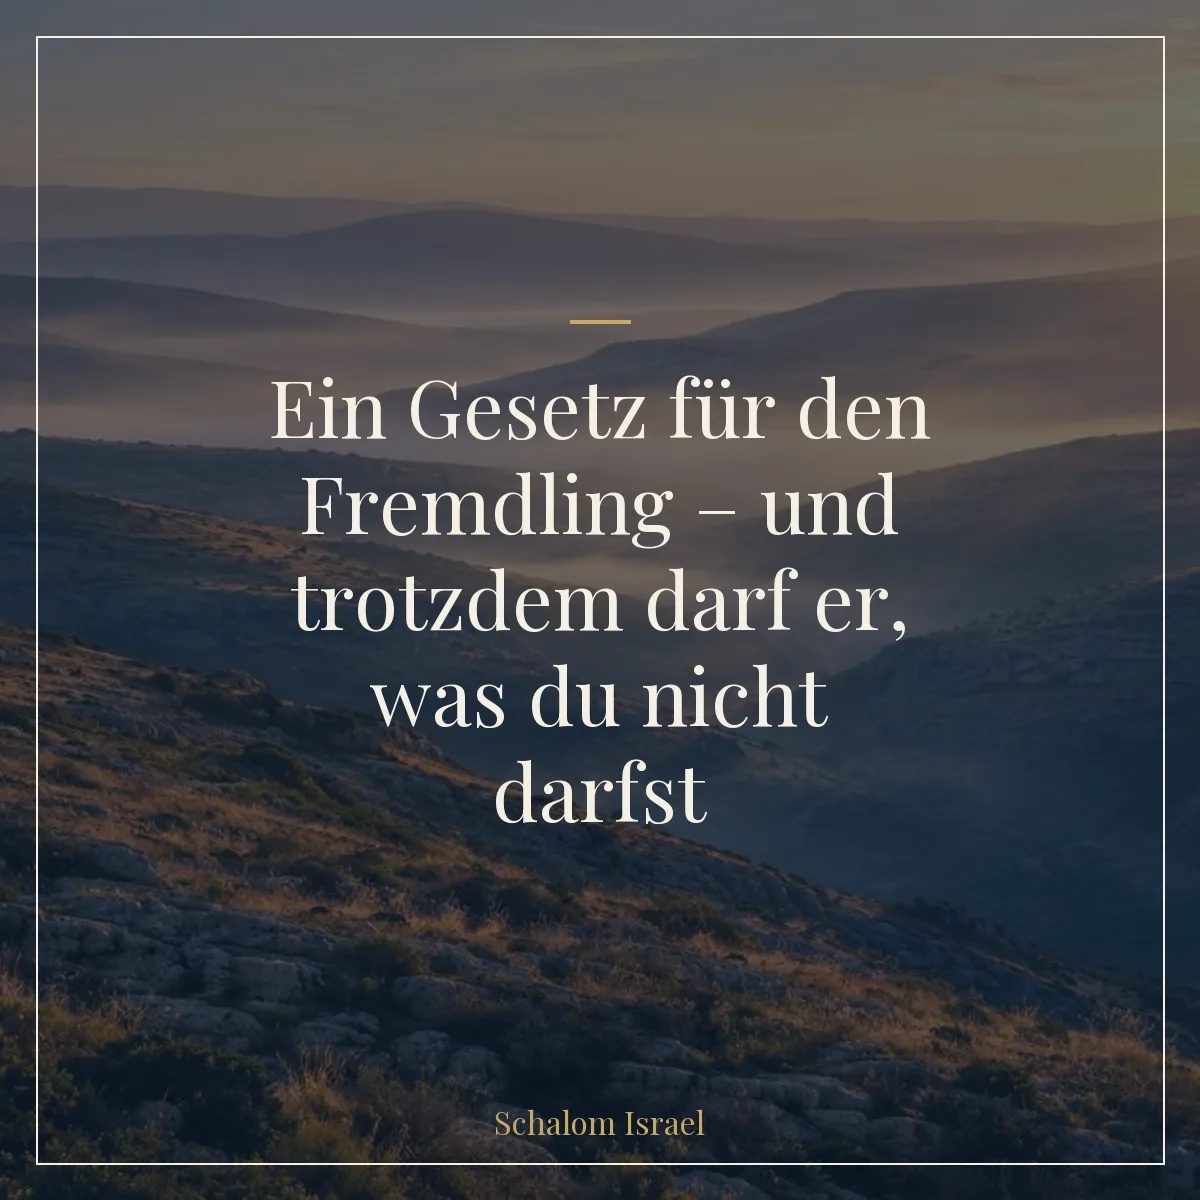
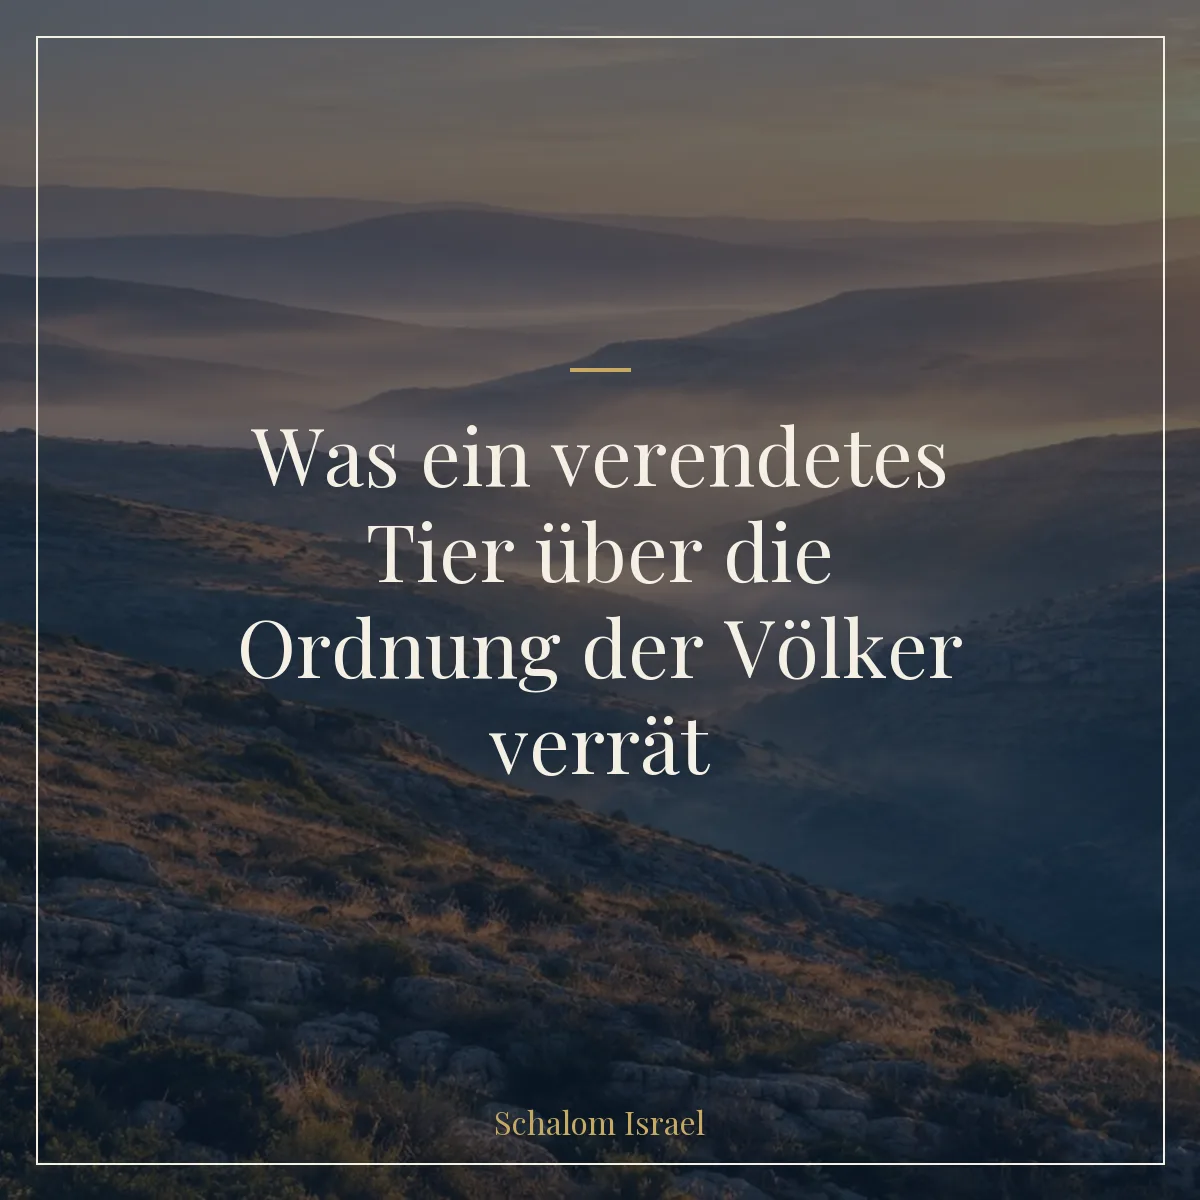
feat(artikel): neuer Titel "Was ein verendetes Tier ueber die Ordnung der Voelker verraet"
Titel ohne Du-Ansprache (SI-Konvention). Durchgezogen in Meta-Tags,
JSON-LD, Hero, Breadcrumb, Blog, Startseite und Themenseite;
Share-Bild neu erzeugt. URL bleibt unveraendert.

Changed region(s): [[0.185, 0.3083, 0.8017, 0.7092], [0.4933, 0.2467, 0.5242, 0.2775]]

diff --git a/ein-gesetz-fuer-den-fremdling/index.html b/ein-gesetz-fuer-den-fremdling/index.html
@@ -4,9 +4,9 @@
   <meta charset="UTF-8">
   <link rel="icon" type="image/svg+xml" href="/favicon.svg">
   <meta name="viewport" content="width=device-width, initial-scale=1.0">
-  <title>Ein Gesetz für den Fremdling – und trotzdem darf er, was du nicht darfst – Schalom Israel</title>
+  <title>Was ein verendetes Tier über die Ordnung der Völker verrät – Schalom Israel</title>
   <meta name="description" content="Warum darf der »Fremdling« in Re'eh das essen, was dem Israeliten verboten ist – obwohl es heißt: ein Gesetz für alle? Fünf hebräische Wörter für »Fremder«, drei Kreise der Zugehörigkeit, und was Gott von den Völkern wirklich fordert, bis hin zum Land, das nur trägt, wer sittlich lebt.">
-  <meta property="og:title" content="Ein Gesetz für den Fremdling – und trotzdem darf er, was du nicht darfst">
+  <meta property="og:title" content="Was ein verendetes Tier über die Ordnung der Völker verrät">
   <meta property="og:description" content="Warum darf der »Fremdling« in Re'eh das essen, was dem Israeliten verboten ist – obwohl es heißt: ein Gesetz für alle? Fünf hebräische Wörter für »Fremder«, drei Kreise der Zugehörigkeit, und was Gott von den Völkern wirklich fordert.">
   <meta property="og:image" content="https://www.schalomisrael.de/bilder/share/ein-gesetz-fuer-den-fremdling.webp">
   <meta property="og:url" content="https://www.schalomisrael.de/ein-gesetz-fuer-den-fremdling/">
@@ -19,7 +19,7 @@
   {
   "@context": "https://schema.org",
   "@type": "Article",
-  "headline": "Ein Gesetz für den Fremdling – und trotzdem darf er, was du nicht darfst",
+  "headline": "Was ein verendetes Tier über die Ordnung der Völker verrät",
   "description": "Warum darf der »Fremdling« in Re'eh das essen, was dem Israeliten verboten ist – obwohl es heißt: ein Gesetz für alle? Fünf hebräische Wörter für »Fremder«, drei Kreise der Zugehörigkeit, und was Gott von den Völkern wirklich fordert.",
   "image": "https://www.schalomisrael.de/bilder/share/ein-gesetz-fuer-den-fremdling.webp",
   "datePublished": "2026-08-21",
@@ -62,7 +62,7 @@
     {
       "@type": "ListItem",
       "position": 3,
-      "name": "Ein Gesetz für den Fremdling"
+      "name": "Die Ordnung der Völker"
     }
   ]
 }
@@ -81,7 +81,7 @@
         <span class="meta-divider">·</span>
         <span class="article-reading-time" data-reading-time>… Min Lesezeit</span>
       </div>
-      <h1 class="article-hero-title">Ein Gesetz für den Fremdling – und trotzdem darf er, was du nicht darfst</h1>
+      <h1 class="article-hero-title">Was ein verendetes Tier über die Ordnung der Völker verrät</h1>
     </div>
   </header>
   <nav class="breadcrumb" aria-label="Brotkrumen-Navigation">
@@ -90,7 +90,7 @@
       <span class="breadcrumb-sep">›</span>
       <a href="/blog/">Blog</a>
       <span class="breadcrumb-sep">›</span>
-      <span class="breadcrumb-current">Ein Gesetz für den Fremdling</span>
+      <span class="breadcrumb-current">Die Ordnung der Völker</span>
     </div>
   </nav>
 
@@ -116,7 +116,7 @@
       <p>Der Israelit darf es nicht essen. Der Fremdling schon.</p>
 
       <figure class="article-share-img">
-        <img src="/bilder/share/ein-gesetz-fuer-den-fremdling.webp" alt="Ein Gesetz für den Fremdling – und trotzdem darf er, was du nicht darfst" loading="lazy" width="1200" height="1200">
+        <img src="/bilder/share/ein-gesetz-fuer-den-fremdling.webp" alt="Was ein verendetes Tier über die Ordnung der Völker verrät" loading="lazy" width="1200" height="1200">
       </figure>
 
       <p>Und hier hakt es. Denn nur ein paar Kapitel vorher, und an vielen anderen Stellen, klingt es genau umgekehrt: „ein Gesetz für den Einheimischen und den Fremdling". Gleiches Recht. Gleiche Regel.</p>

diff --git a/themen/land-israel/index.html b/themen/land-israel/index.html
@@ -136,7 +136,7 @@
         "@type": "ListItem",
         "position": 1,
         "url": "https://www.schalomisrael.de/ein-gesetz-fuer-den-fremdling/",
-        "name": "Ein Gesetz für den Fremdling – und trotzdem darf er, was du nicht darfst"
+        "name": "Was ein verendetes Tier über die Ordnung der Völker verrät"
       },
       {
         "@type": "ListItem",
@@ -214,11 +214,11 @@
     <div class="container">
       <article class="article-card" data-parasha="reeh" data-book="dewarim">
         <a href="/ein-gesetz-fuer-den-fremdling/" class="article-image-link">
-          <img src="/bilder/share/ein-gesetz-fuer-den-fremdling.webp" alt="Ein Gesetz für den Fremdling – und trotzdem darf er, was du nicht darfst" class="article-image">
+          <img src="/bilder/share/ein-gesetz-fuer-den-fremdling.webp" alt="Was ein verendetes Tier über die Ordnung der Völker verrät" class="article-image">
         </a>
         <div class="article-body">
           <p class="article-author">Micha Levzion</p>
-          <h3 class="article-title"><a href="/ein-gesetz-fuer-den-fremdling/">Ein Gesetz für den Fremdling – und trotzdem darf er, was du nicht darfst</a></h3>
+          <h3 class="article-title"><a href="/ein-gesetz-fuer-den-fremdling/">Was ein verendetes Tier über die Ordnung der Völker verrät</a></h3>
           <p class="article-excerpt">Warum darf der Fremdling in Re'eh essen, was dem Israeliten verwehrt ist, obwohl „ein Gesetz für alle" gilt? Drei Kreise der Zugehörigkeit, und ein Land, das nur trägt, wer im Kreis der Moral lebt.</p>
           <a href="/ein-gesetz-fuer-den-fremdling/" class="btn btn--outline">Beitrag lesen</a>
         </div>

diff --git a/blog/index.html b/blog/index.html
@@ -250,11 +250,11 @@
 
       <article class="article-card" data-parasha="reeh" data-book="dewarim">
         <a href="/ein-gesetz-fuer-den-fremdling/" class="article-image-link">
-          <img src="../bilder/share/ein-gesetz-fuer-den-fremdling.webp" alt="Ein Gesetz für den Fremdling – und trotzdem darf er, was du nicht darfst" class="article-image">
+          <img src="../bilder/share/ein-gesetz-fuer-den-fremdling.webp" alt="Was ein verendetes Tier über die Ordnung der Völker verrät" class="article-image">
         </a>
         <div class="article-body">
           <p class="article-author">Micha Levzion</p>
-          <h3 class="article-title"><a href="/ein-gesetz-fuer-den-fremdling/">Ein Gesetz für den Fremdling – und trotzdem darf er, was du nicht darfst</a></h3>
+          <h3 class="article-title"><a href="/ein-gesetz-fuer-den-fremdling/">Was ein verendetes Tier über die Ordnung der Völker verrät</a></h3>
           <p class="article-excerpt">Warum darf der Fremdling in Re'eh essen, was dem Israeliten verwehrt ist, obwohl „ein Gesetz für alle" gilt? Fünf hebräische Wörter für „Fremder", drei Kreise der Zugehörigkeit, und was Gott von den Völkern wirklich fordert, bis hin zum Land, das nur trägt, wer sittlich lebt.</p>
           <a href="/ein-gesetz-fuer-den-fremdling/" class="btn btn--outline">Beitrag lesen</a>
         </div>

diff --git a/index.html b/index.html
@@ -195,11 +195,11 @@
 
       <article class="article-card">
         <a href="/ein-gesetz-fuer-den-fremdling/" class="article-image-link">
-          <img src="bilder/share/ein-gesetz-fuer-den-fremdling.webp" alt="Ein Gesetz für den Fremdling – und trotzdem darf er, was du nicht darfst" width="1200" height="1200" loading="lazy" class="article-image">
+          <img src="bilder/share/ein-gesetz-fuer-den-fremdling.webp" alt="Was ein verendetes Tier über die Ordnung der Völker verrät" width="1200" height="1200" loading="lazy" class="article-image">
         </a>
         <div class="article-body">
           <p class="article-author">Micha Levzion</p>
-          <h3 class="article-title"><a href="/ein-gesetz-fuer-den-fremdling/">Ein Gesetz für den Fremdling – und trotzdem darf er, was du nicht darfst</a></h3>
+          <h3 class="article-title"><a href="/ein-gesetz-fuer-den-fremdling/">Was ein verendetes Tier über die Ordnung der Völker verrät</a></h3>
           <p class="article-excerpt">Warum darf der Fremdling in Re'eh essen, was dem Israeliten verwehrt ist, obwohl „ein Gesetz für alle" gilt? Fünf hebräische Wörter für „Fremder", drei Kreise der Zugehörigkeit, und was Gott von den Völkern wirklich fordert.</p>
           <a href="/ein-gesetz-fuer-den-fremdling/" class="btn btn--outline">Beitrag lesen</a>
         </div>
